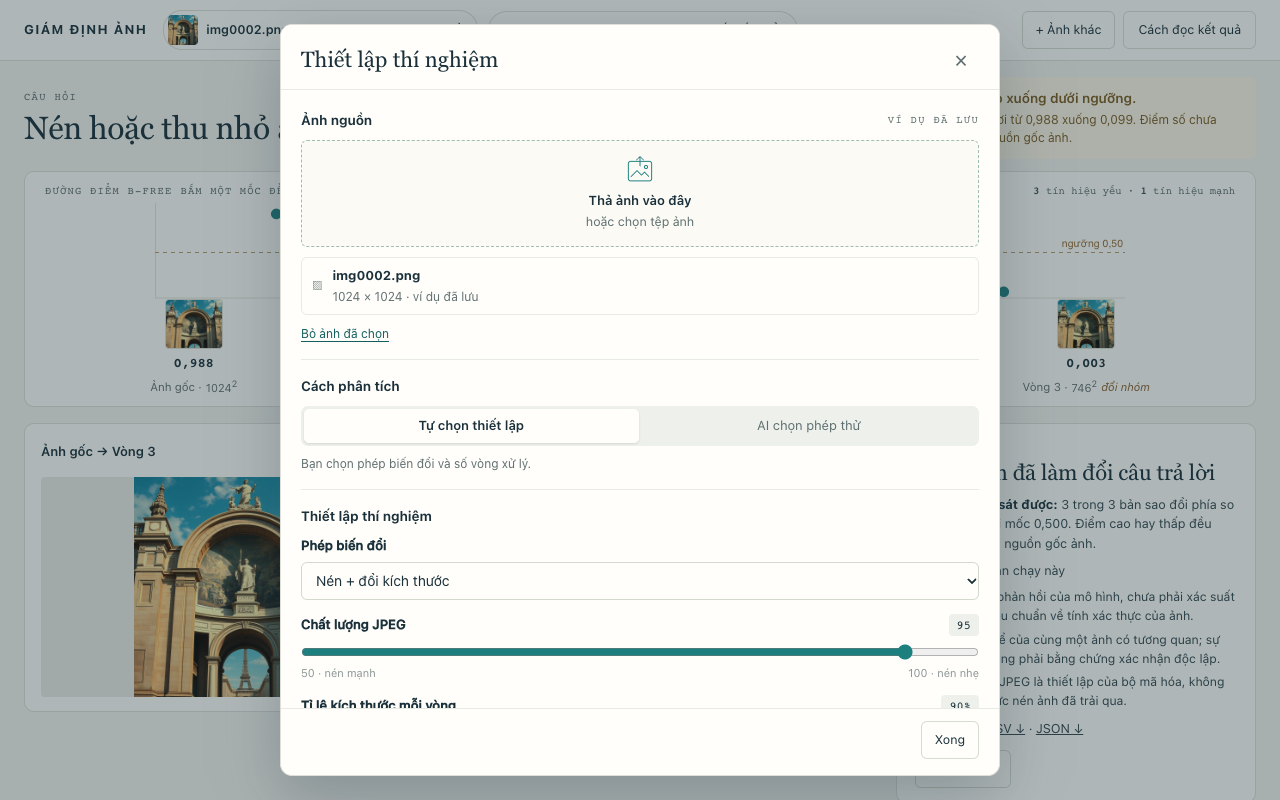
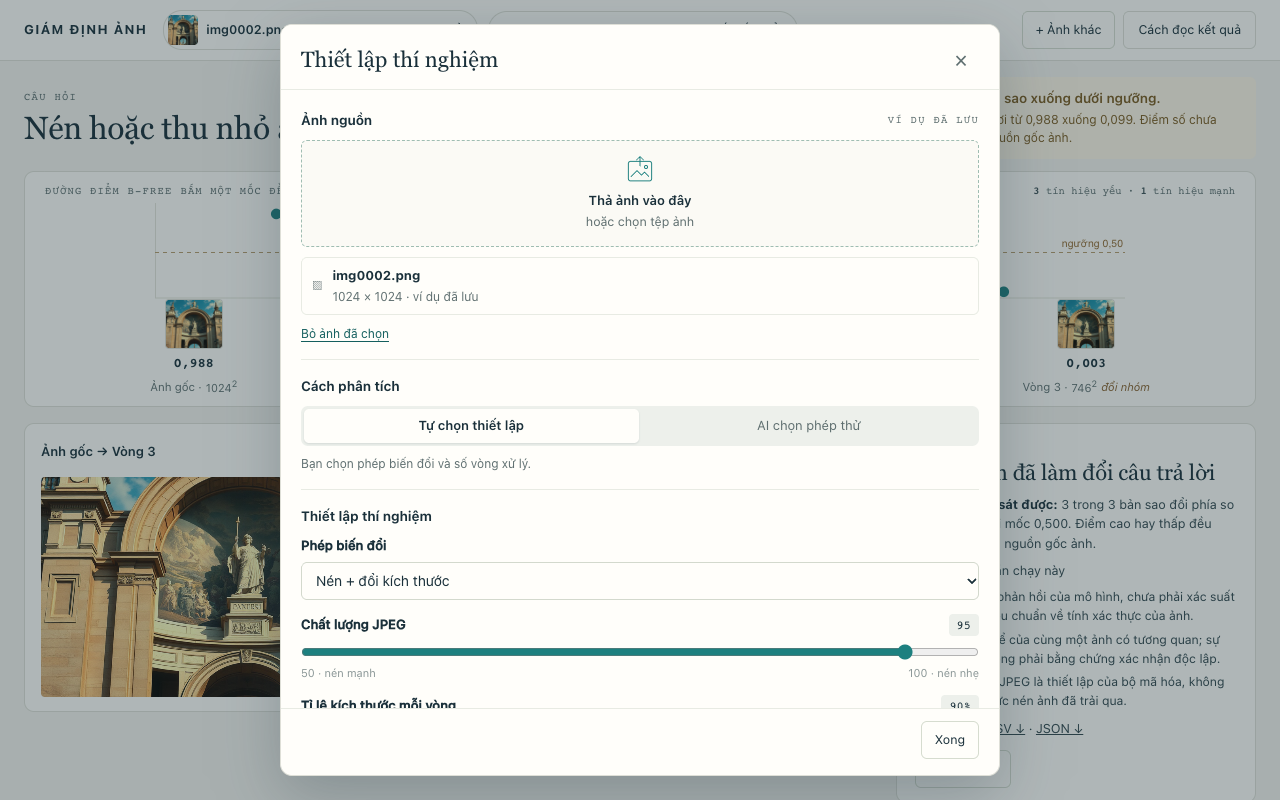
Answer the detection question and crop the comparison stage

Changed region(s): [[0.0312, 0.5938, 0.2188, 0.875], [0.7812, 0.0938, 0.9062, 0.1562]]

diff --git a/web/index.html b/web/index.html
@@ -76,7 +76,7 @@
             </div>
             <div class="zoom-tools" aria-label="Thu phóng">
               <button type="button" class="tool-button" id="zoom-out" aria-label="Thu nhỏ">−</button>
-              <button type="button" class="tool-button zoom-level" id="zoom-reset" aria-label="Vừa khung">Vừa khung</button>
+              <button type="button" class="tool-button zoom-level" id="zoom-reset" aria-label="Đặt lại thu phóng">Mặc định</button>
               <button type="button" class="tool-button" id="zoom-in" aria-label="Phóng to">+</button>
             </div>
             <div class="diff-tools" id="diff-tools" hidden>
@@ -260,7 +260,7 @@
       <section id="guide-stability"><h3>Ổn định chưa có nghĩa là xác nhận</h3><p>Các biến thể cùng xuất phát từ một ảnh nên có tương quan. Điểm số giữ nguyên qua nhiều phép biến đổi cho thấy phản hồi của mô hình lặp lại được, không phải bằng chứng độc lập về nguồn gốc ảnh.</p></section>
       <section id="guide-modes"><h3>Nối tiếp và đối chứng một lượt</h3><p><strong>Nối tiếp:</strong> mỗi vòng xử lý ảnh từ kết quả vòng trước; ở vòng r, kích thước đích là kích thước gốc × tỉ lệ<sup>r</sup>. <strong>Đối chứng một lượt:</strong> mỗi điều kiện bắt đầu lại từ ảnh gốc, đổi trực tiếp về cùng kích thước đích rồi nén JPEG một lần. Đối chứng chỉ nén JPEG có thể trùng nhau; đó là đối chứng có chủ đích, không phải bằng chứng độc lập thêm.</p></section>
       <section id="guide-table"><h3>Bảng đo từng vòng</h3><p>MSE và PSNR so sánh từng biến thể với ảnh gốc được đổi trực tiếp (LANCZOS) về đúng kích thước của biến thể đó. PSNR ∞ nghĩa là điểm ảnh trùng hoàn toàn với ảnh tham chiếu. Sai khác điểm ảnh không phải bằng chứng ảnh AI. Dung lượng phụ thuộc định dạng lưu, gồm cả ảnh gốc chuẩn hóa dạng PNG, nên không phải tỉ lệ nén so với tệp tải lên.</p></section>
-      <section id="guide-viewer"><h3>Khung so sánh</h3><p>Ảnh được co vừa khung để so sánh, nên ảnh đã thu nhỏ trông cùng cỡ với ảnh gốc. Hãy xem số điểm ảnh ở chú thích để biết kích thước thật. Khi phóng to từ 200% trở lên, điểm ảnh được hiển thị sắc nét để thấy rõ khối nén JPEG.</p></section>
+      <section id="guide-viewer"><h3>Khung so sánh</h3><p>Ảnh được phủ kín khung để dễ so sánh, nên phần trên và dưới có thể bị cắt; chuyển sang Trượt để xem toàn ảnh. Hãy xem số điểm ảnh ở chú thích để biết kích thước thật. Khi phóng to từ 200% trở lên, điểm ảnh được hiển thị sắc nét để thấy rõ khối nén JPEG.</p></section>
       <section id="guide-diff"><h3>Bản đồ khác biệt</h3><p>Bản đồ tô màu |ảnh gốc − biến thể| sau khi đưa ảnh gốc về cùng kích thước với biến thể, rồi khuếch đại để dễ nhìn: tối là gần giống, sáng là khác nhiều. Bản đồ được tính ngay trên trình duyệt nên chỉ để quan sát. Phép thu nhỏ của trình duyệt khác LANCZOS, vì vậy số đo chính thức vẫn là MSE/PSNR trong bảng.</p></section>
       <section id="guide-regional"><h3>TruFor kiểm tra từng vùng</h3><p>TruFor định vị dấu hiệu chỉnh sửa cục bộ, không xác định điểm ảnh do AI tạo. Hãy đọc bản đồ bất thường cùng bản đồ độ tin cậy định vị: vùng có độ tin cậy thấp cần diễn giải thận trọng hơn. Chỉnh sửa thông thường cũng để lại dấu vết. Điểm TruFor được trình bày riêng và không bao giờ gộp với B-Free.</p></section>
       <section id="guide-agent"><h3>Phân tích thích ứng</h3><p>B-Free đo ảnh gốc trước. Sau đó Qwen chạy trên máy chọn phép thử tiếp theo từ danh sách cho phép, dựa trên kết quả đã ghi nhận và số lượt còn lại. Qwen không nhận ảnh, tên tệp hay nhãn. Phần tóm tắt được tính từ giá trị đã đo, có mã bằng chứng E1, E2… dẫn về từng phép đo.</p></section>

diff --git a/web/guide.js b/web/guide.js
@@ -218,15 +218,17 @@
     }
     const changed = copies.filter((item) => typeof item.changed === "boolean" ? item.changed : (item.score > threshold) !== (baseline.score > threshold));
     const flips = changed.length, total = copies.length;
+    const baseAbove = baseline.score > threshold;
     let tone = "info";
     let title;
-    if (!flips) title = `Không. Cả ${total} ${noun} giữ nguyên nhóm.`;
-    else if (flips === total) {
+    if (!flips) {
+      title = baseAbove ? `Có. Cả ${total} ${noun} vẫn trên ngưỡng.` : `Không. Ảnh gốc và ${total} ${noun} đều dưới ngưỡng.`;
+    } else if (flips === total) {
       tone = "warn";
-      title = baseline.score > threshold ? `Có. Cả ${total} ${noun} xuống dưới ngưỡng.` : `Có. Cả ${total} ${noun} vượt ngưỡng.`;
+      title = baseAbove ? `Không. Cả ${total} ${noun} xuống dưới ngưỡng.` : `Có. Cả ${total} ${noun} vượt ngưỡng.`;
     } else {
       tone = "warn";
-      title = `Có. ${flips} trong ${total} ${noun} đổi nhóm.`;
+      title = baseAbove ? `Một phần. ${total - flips} trong ${total} ${noun} vẫn trên ngưỡng.` : `Một phần. ${flips} trong ${total} ${noun} vượt ngưỡng.`;
     }
     let detail;
     if (flips) {
@@ -236,7 +238,9 @@
       detail = `${when}điểm ${rising ? "tăng" : "rơi"} từ ${format(baseline.score)} ${rising ? "lên" : "xuống"} ${format(first.score)}.`;
     } else {
       const scores = scored.map((item) => item.score);
-      detail = `Điểm cao nhất ${format(Math.max(...scores))}, thấp nhất ${format(Math.min(...scores))}; mô hình giữ nguyên nhóm.`;
+      detail = baseAbove
+        ? `Điểm cao nhất ${format(Math.max(...scores))}, thấp nhất ${format(Math.min(...scores))}; mô hình vẫn phát hiện tín hiệu AI ở cả ${total} ${noun}.`
+        : `Điểm cao nhất ${format(Math.max(...scores))}, thấp nhất ${format(Math.min(...scores))}; mô hình không phát hiện tín hiệu AI ở ảnh gốc lẫn ${noun}.`;
     }
     return { tone, title: `${prefix}${title}`, detail: `${lead}${detail} ${caution}` };
   }

diff --git a/web/app.js b/web/app.js
@@ -631,8 +631,8 @@
       if (available.length) body.push(links);
     } else if (selected.kind === "regional") {
       const evidence = regionalEvidence();
-      if (evidence?.message) body.push(railParagraph("TruFor:", translate(evidence.message)));
-      (lesson.body || []).forEach((part) => body.push(railParagraph(part.label, part.text)));
+      const action = (lesson.body || [])[0];
+      if (action) body.push(railParagraph(action.label, action.text));
       const warnings = Array.isArray(evidence?.warnings) ? evidence.warnings : [];
       if (warnings.length) body.push(railParagraph("Đọc cùng nhau:", warnings.map((warning) => translate(warning)).join(" ")));
     } else {
@@ -1198,7 +1198,7 @@
         frame.classList.toggle("zoomed", zoom() > 1);
         frame.classList.toggle("pixelated", zoom() >= 2);
       }
-      $("zoom-reset").textContent = zoom() === 1 ? "Vừa khung" : `${Math.round(zoom() * 100)}%`;
+      $("zoom-reset").textContent = zoom() === 1 ? "Mặc định" : `${Math.round(zoom() * 100)}%`;
       $("zoom-out").disabled = zoomIndex === 0;
       $("zoom-in").disabled = zoomIndex === zoomSteps.length - 1;
     }

diff --git a/web/style.css b/web/style.css
@@ -167,6 +167,7 @@ summary { cursor: pointer; }
 .image-stage.panning { cursor: grabbing; }
 .zoom-layer { position: absolute; inset: 0; transform-origin: 50% 50%; transform: translate(var(--pan-x, 0px), var(--pan-y, 0px)) scale(var(--zoom, 1)); }
 .zoom-layer img, .zoom-layer canvas { position: absolute; inset: 0; width: 100%; height: 100%; object-fit: contain; }
+.stage-body[data-view="side"] .zoom-layer img { object-fit: cover; }
 .pixelated .zoom-layer img, .pixelated .zoom-layer canvas { image-rendering: pixelated; }
 .stage-chip { display: none; position: absolute; z-index: 3; top: 8px; left: 8px; background: #1a303ad9; color: #fff; font-size: 11px; line-height: 1; padding: 6px 9px; border-radius: 4px; }
 #result-figure .stage-chip { left: auto; right: 8px; }
